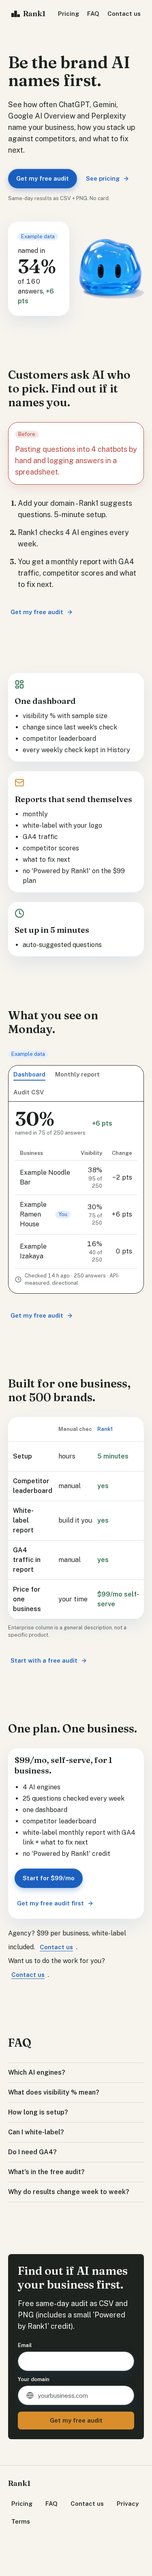
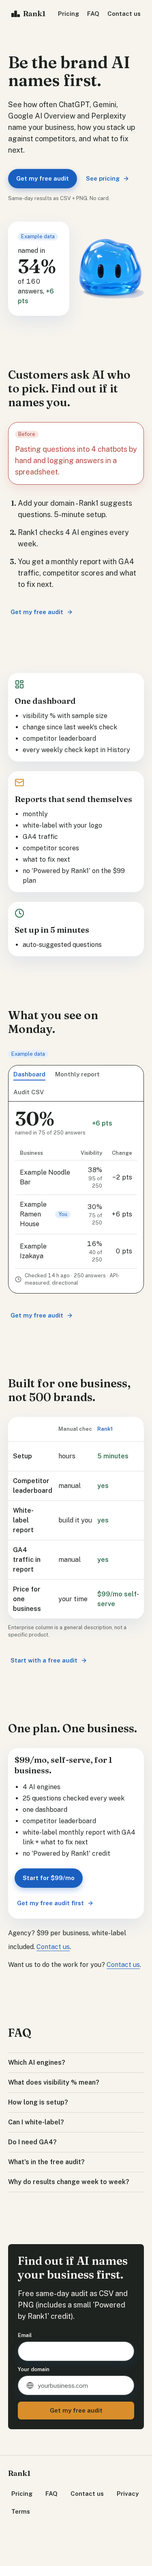
step 2a: pricing Contact us uses the default ContactUsLink style

diff --git a/src/components/site/Pricing.tsx b/src/components/site/Pricing.tsx
@@ -1,6 +1,5 @@
 import { ContactUsLink } from "@/components/contact/ContactUsLink";
 import { Button } from "@/components/ui/Button";
-import { navLink } from "./Header";
 import { Section } from "./Section";
 
 const includes = [
@@ -14,7 +13,7 @@ const includes = [
 
 const contact = (
   <>
-    <ContactUsLink className={`${navLink} px-0 text-jellyDeep underline`}>Contact us</ContactUsLink>
+    <ContactUsLink>Contact us</ContactUsLink>
     {"."}
   </>
 );
